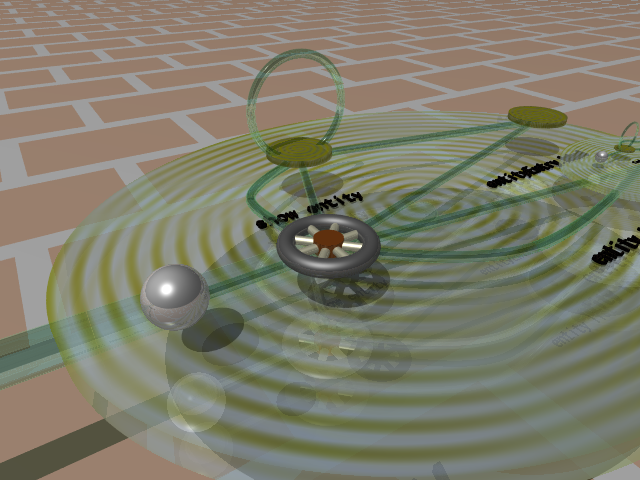
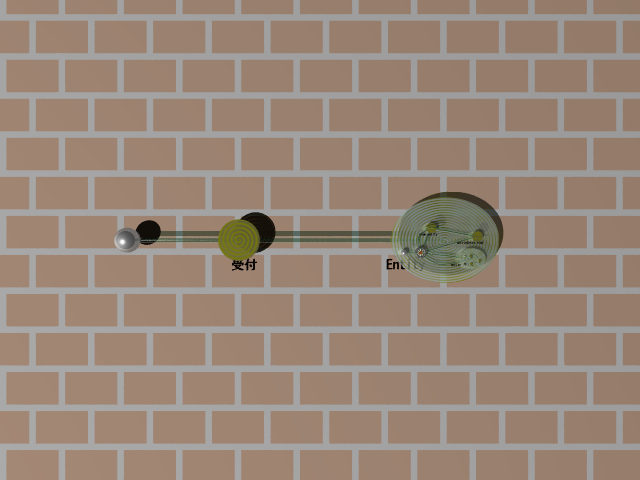
Generalization直付け

diff --git a/src/main/java/biz/chamos/povastah/scene/Diagram.java b/src/main/java/biz/chamos/povastah/scene/Diagram.java
@@ -117,6 +117,31 @@ public class Diagram {
 	}
 
 	/**
+	 * POVRayオブジェクト変換対象除外
+	 * @param presentation
+	 * @return
+	 * @throws IOException 
+	 */
+	protected boolean excludeIPresentation(ILinkPresentation presentation) {
+		/**
+		 * 除外対象要素
+		 * フレーム : "Frame" | ノート : "Note" | テキスト : "Text" | 長方形 : "Rectangle" | 楕円 : "Oval"
+		 *  | 画像 : "Image" | 直線 : "Line" | フリーハンド : "FreeHand" | 
+		 */	
+		final String[] excludes = {"Frame", "Note", "Text", "Rectangle", "Oval", "Image", "Line", "FreeHand", "Highlighter"};
+		String type = presentation.getType();
+		for(String exclude: excludes) {
+			if(type.equals(exclude)) {
+				if(exclude.equals("Frame")) { // フレームの矩形を保持する
+					 stage = presentation.getDiagram().getBoundRect();
+				}
+				return true;
+			}
+		}	 
+		return false;
+	}
+	
+	/**
 	 * スクリプトのヘッダ部を出力する
 	 * @throws IOException
 	 * @throws ProjectNotFoundException 
@@ -363,7 +388,6 @@ public class Diagram {
 	protected void writeLinks() throws IOException {
 		for (ILinkPresentation link : links) {
 				writeLink(link);
-//				sceneWriter.flush();
 		}
 	}
 
@@ -418,7 +442,7 @@ public class Diagram {
 	}
 
 	protected String linkTextureName(ILinkPresentation link) {
-		return "  texture { " + link.getType().replace('/', '_').replace(' ', '_').replace('&', '_').replace('-', '_')	+ "Texture }" + CR + "}" + CR;
+		return "  texture { " + link.getType().replace('/', '_').replace(' ', '_').replace('&', '_').replace('-', '_')	+ "Texture }}" + CR;
 	}
 	
 	/**

diff --git a/src/main/java/biz/chamos/povastah/scene/ClassDiagram.java b/src/main/java/biz/chamos/povastah/scene/ClassDiagram.java
@@ -199,6 +199,31 @@ public class ClassDiagram extends Diagram {
 		}
 		writeSpline(link, sourcez, targetz);
 	}
+
+	/**
+	 * sphere_sweep{ linear_spline | cubic_spline }を出力する 
+	 * @param link
+	 * @param lineRadius 
+	 * @param sourcez ソースノードの高さ
+	 * @param targetz ターゲットノードの高さ
+	 * @param sourcep ソースノードの座標
+	 * @param targetp ターゲットノードの座標
+	 * @throws IOException
+	 */
+	protected void writeSpline(ILinkPresentation link, double sourcez, double targetz) throws IOException {
+		if(link.getType().equals("Generalization")) { // GeneralizationGroupを除外したので、クラス継承関係を直に繋げる
+			Point2D sourcep = nodePosition(link.getSource());
+			Point2D targetp = nodePosition(link.getTarget());
+			double lineRadius = 3.0;
+
+			sceneWriter.write("sphere_sweep { linear_spline, " + 2 + ", " + CR); // 始点、終点の2点
+			sceneWriter.write(coordinate(sourcep, sourcez) + ", " + lineRadius + CR); // 始点
+			sceneWriter.write(coordinate(targetp, targetz) + ", " + lineRadius + CR); // 終点
+			sceneWriter.write(linkTextureName(link));
+		}else {
+			super.writeSpline(link, sourcez, targetz);
+		}	
+	}
 	
 	/**
 	 * ロバストネス図対応
